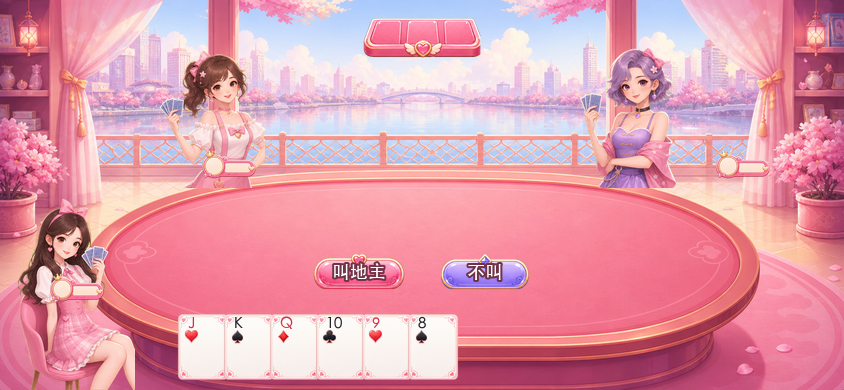
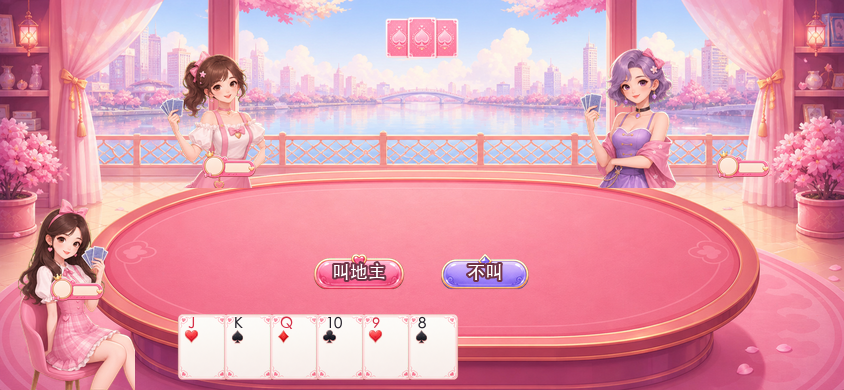
fix(ART-GAME-REMAKE): clarify bottom cards dock

Changed region(s): [[0.4313, 0.0308, 0.5853, 0.1538]]

diff --git a/asset-previews/v13-pink-game-remake/scripts/finalize_imagegen_v13.py b/asset-previews/v13-pink-game-remake/scripts/finalize_imagegen_v13.py
@@ -47,7 +47,6 @@ UI_SPECS = [
   CropSpec("ui-v13-source.png", (375, 405, 775, 635), "ui/settlement-banner-win-v13.png", (640, 180), 8),
   CropSpec("ui-v13-source.png", (760, 405, 1130, 635), "ui/settlement-banner-lose-v13.png", (640, 180), 8),
   CropSpec("ui-v13-source.png", (1115, 350, 1515, 670), "ui/settlement-panel-v13.png", (760, 380), 10),
-  CropSpec("ui-v13-source.png", (35, 710, 485, 940), "ui/bottom-cards-dock-v13.png", (440, 140), 8),
   CropSpec("ui-v13-source.png", (525, 680, 795, 990), "ui/badge-multiplier-v13.png", (180, 180), 6),
   CropSpec("ui-v13-source.png", (835, 685, 1110, 970), "ui/badge-timer-v13.png", (180, 180), 6),
   CropSpec("ui-v13-source.png", (1190, 675, 1465, 990), "ui/badge-role-v13.png", (180, 180), 6),
@@ -97,6 +96,7 @@ def main() -> None:
   build_background()
   for spec in AVATAR_SPECS + UI_SPECS + CARD_SPECS:
     build_cutout(spec)
+  build_bottom_cards_dock()
   build_stretch_simulations()
   build_composites()
   write_manifest()
@@ -120,6 +120,17 @@ def build_cutout(spec: CropSpec) -> None:
   out = ROOT / spec.out
   out.parent.mkdir(parents=True, exist_ok=True)
   final.save(out)
+
+
+def build_bottom_cards_dock() -> None:
+  src = Image.open(SOURCE / "bottom-cards-dock-v13-source.png").convert("RGBA")
+  cut = remove_green(src)
+  bbox = cut.getbbox()
+  if bbox is not None:
+    cut = cut.crop(bbox)
+  final = contain(cut, (440, 140), 4)
+  (OUT_UI / "bottom-cards-dock-v13.png").parent.mkdir(parents=True, exist_ok=True)
+  final.save(OUT_UI / "bottom-cards-dock-v13.png")
 
 
 def remove_green(image: Image.Image) -> Image.Image:
@@ -457,7 +468,7 @@ def write_prompts() -> None:
     "",
     "## Review package checklist",
     "",
-    "- Formal source sheets: 4 built-in image_gen sources under `source/generated-v13/`.",
+    "- Formal source images: 5 built-in image_gen sources under `source/generated-v13/` (4 sheets plus one dedicated bottom-cards dock source).",
     "- Formal item previews: background 1, body avatars 3, UI sprites 12, card sprites 8.",
     "- Card sprite coverage: template, back, spade, heart, club, diamond, small Joker, big Joker.",
     "- Stretch simulations: 7 sheets; each sheet shows 64px and 176px horizontal 9-slice candidates.",
@@ -477,6 +488,10 @@ def write_prompts() -> None:
     "### `source/generated-v13/ui-v13-source.png`",
     "",
     "Prompt summary: 4x3 text-free pink cartoon UI sprite sheet on flat #00ff00 chroma-key background: nameplate, buttons, settlement ribbons/panel, dock, timer/multiplier/role badges.",
+    "",
+    "### `source/generated-v13/bottom-cards-dock-v13-source.png`",
+    "",
+    "Prompt summary: dedicated front-facing flat three-card back dock source on flat #00ff00 chroma-key background; generated after user rejected the prior dock as unclear; no perspective, no plaque/button treatment, no text.",
     "",
     "### `source/generated-v13/cards-v13-source.png`",
     "",

diff --git a/asset-previews/v13-pink-game-remake/PROMPTS.md b/asset-previews/v13-pink-game-remake/PROMPTS.md
@@ -12,7 +12,7 @@
 
 ## Review package checklist
 
-- Formal source sheets: 4 built-in image_gen sources under `source/generated-v13/`.
+- Formal source images: 5 built-in image_gen sources under `source/generated-v13/` (4 sheets plus one dedicated bottom-cards dock source).
 - Formal item previews: background 1, body avatars 3, UI sprites 12, card sprites 8.
 - Card sprite coverage: template, back, spade, heart, club, diamond, small Joker, big Joker.
 - Stretch simulations: 7 sheets; each sheet shows 64px and 176px horizontal 9-slice candidates.
@@ -33,6 +33,10 @@ Prompt summary: three original cute cartoon female player body sprites on flat #
 
 Prompt summary: 4x3 text-free pink cartoon UI sprite sheet on flat #00ff00 chroma-key background: nameplate, buttons, settlement ribbons/panel, dock, timer/multiplier/role badges.
 
+### `source/generated-v13/bottom-cards-dock-v13-source.png`
+
+Prompt summary: dedicated front-facing flat three-card back dock source on flat #00ff00 chroma-key background; generated after user rejected the prior dock as unclear; no perspective, no plaque/button treatment, no text.
+
 ### `source/generated-v13/cards-v13-source.png`
 
 Prompt summary: text-free pink cartoon card sprite sheet on flat #00ff00 chroma-key background: card template, back, suits, Joker skins.
@@ -40,6 +44,7 @@ Prompt summary: text-free pink cartoon card sprite sheet on flat #00ff00 chroma-
 ## Formal generated files
 
[5 lines of base64/hex data omitted]
@@ -50,7 +55,7 @@ Prompt summary: text-free pink cartoon card sprite sheet on flat #00ff00 chroma-
[8 lines of base64/hex data omitted]
@@ -67,14 +72,14 @@ Prompt summary: text-free pink cartoon card sprite sheet on flat #00ff00 chroma-
[18 lines of base64/hex data omitted]

diff --git a/coordination/reports/ART-GAME-REMAKE.report.md b/coordination/reports/ART-GAME-REMAKE.report.md
@@ -13,10 +13,11 @@
 
 ## 生成方式 / 管线证据
 
-- 使用内置 `image_gen` 生成 4 张正式源图，原样保存在 `asset-previews/v13-pink-game-remake/source/generated-v13/`：
+- 使用内置 `image_gen` 生成 5 张正式源图，原样保存在 `asset-previews/v13-pink-game-remake/source/generated-v13/`：
   - `game-table-bg-v13-source.png`
   - `avatars-v13-source.png`
   - `ui-v13-source.png`
+  - `bottom-cards-dock-v13-source.png`
   - `cards-v13-source.png`
 - 使用 `asset-previews/v13-pink-game-remake/scripts/finalize_imagegen_v13.py` 做非创作后处理：
   - 裁切 image_gen 源图。
@@ -124,7 +125,7 @@ composites/v13/composite-844x390-settlement-v13.png 0d5f3809d9dffde0 844x390 alp
 - 验收面：图像 preview
 - 环境与版本：内置 `image_gen` + Python 3 + Pillow 后处理脚本
 - 操作步骤：
-  1. 生成 4 张内置 `image_gen` 源图。
+  1. 生成 5 张内置 `image_gen` 源图。
   2. 复制源图到 `source/generated-v13/`，保留原 `$CODEX_HOME/generated_images/...` 源路径。
   3. 运行 `python3 asset-previews/v13-pink-game-remake/scripts/finalize_imagegen_v13.py`。
   4. 目检 `review-sheet-v2.png`、三张 v13 合成图与 `btn-primary-v13-stretch.png`。
@@ -188,7 +189,7 @@ git status --short --untracked-files=all
 
 ## 与 spec 的偏差 / 关键决策
 
-- 使用 4 张 image_gen 源图承载多件 sprite，再逐件裁切为正式 `-v13` preview。每个正式件均来自内置 `image_gen` 源图，Pillow 只做非创作后处理。
+- 使用 4 张 image_gen 源图承载多件 sprite，并为底牌托架追加 1 张独立 image_gen 源图；每个正式件均来自内置 `image_gen` 源图，Pillow 只做非创作后处理。
 - `settlement-banner-win-v13` / `settlement-banner-lose-v13` 为无字装饰底图；合成预览中的「地主胜利」是 composite 上的代码字效果示意，不是正式资产内文字。
 - Joker 使用原创小丑/皇冠图案区分大小王，无 `JOKER` 文字，避免 image_gen 文字瑕疵。
 - `ui/badge-role-v13.png` 是 UI sheet 附加裁切件，不在本轮必选 import 清单内。
@@ -358,7 +359,7 @@ settlementShowcase: {"x":172,"y":32,"width":437,"height":180}
 
 ### 全量清单收口
 
-- 正式 image_gen 源图：4 张，均在 `source/generated-v13/`。
+- 正式 image_gen 源图：5 张，均在 `source/generated-v13/`。
 - 正式分项 preview：背景 1、三名立绘 3、UI 12、卡牌 8。
 - 卡牌 8 件齐：`card-template-v13`、`card-back-v13`、`suit-spade-v13`、`suit-heart-v13`、`suit-club-v13`、`suit-diamond-v13`、`joker-small-v13`、`joker-big-v13`。
 - 九宫格模拟 7 件齐：`btn-primary`、`btn-secondary`、`btn-tertiary`、`btn-disabled`、`settlement-panel`、`seat-nameplate`、`bottom-cards-dock`；每张模拟图含 64px / 176px 两档水平拉伸。
@@ -408,6 +409,59 @@ passed
 | 卡牌 8 件 | `cards/*-v13.png` | waiting |
 | 九宫格模拟 7 件 | `stretch-simulations/*-v13-stretch.png` | waiting |
 | pink 风格一致性 / 整体布局 / 名字牌对比度 / 手牌可读性 / 按钮易点性 / 结算观感 | 用户主观终审项 | waiting |
+
+## 用户图审打回返工段（Codex · 2026-07-05 · bottom-cards dock）
+
+### 打回项
+
+- 用户指出顶部红框中的底牌托架不可识别，容易被看成装饰牌匾或按钮。
+- 用户裁定：需要改成更明确的三张牌背展示；必须是平视正面视角，不要做成透视图。
+
+### 修复方式
+
+- 使用内置 `image_gen` 新生成独立源图：
+  - 原始内置输出：`/Users/admin/.codex/generated_images/019f2d58-cc34-7472-9821-6580a3c4f362/ig_0da31a4c8be87d33016a49524718ac8198be128deaf1a50e81.png`
+  - 工作区留存：`asset-previews/v13-pink-game-remake/source/generated-v13/bottom-cards-dock-v13-source.png`
+- `finalize_imagegen_v13.py` 不再从 `ui-v13-source.png` 裁旧底牌托架；改为从上述独立源图去背、裁切、缩放生成 `ui/bottom-cards-dock-v13.png`。
+- 重跑后处理并更新：
+  - `ui/bottom-cards-dock-v13.png`
+  - `stretch-simulations/bottom-cards-dock-v13-stretch.png`
+  - `composites/v13/composite-844x390-bidding-v13.png`
+  - `composites/v13/composite-780x360-playing-v13.png`
+  - `review-sheet-v2.png`
+  - `manifest-v13.json`
+  - `PROMPTS.md`
+
+### 最新打回修复机械校验
+
+```
+python3 asset-previews/v13-pink-game-remake/scripts/finalize_imagegen_v13.py
+completed
+
+asset list check
+missing []
+not_manifest []
+old_entries []
+alpha_bad []
+manifest_count 40
+
+source/generated-v13/bottom-cards-dock-v13-source.png ac28d51bc2d961f7 1672x941 alpha False corners False
+ui/bottom-cards-dock-v13.png 87932111eac3a59c 440x140 alpha True corners True
+stretch-simulations/bottom-cards-dock-v13-stretch.png 26b90861d3338470 300x220 alpha False corners False
+composites/v13/composite-844x390-bidding-v13.png 0a6844153bcfca1f 844x390 alpha False corners False
+composites/v13/composite-780x360-playing-v13.png bb6c02e5e248ca09 780x360 alpha False corners False
+review-sheet-v2.png d5edeb9de81866ff 1800x1320 alpha False corners False
+
+npm --prefix test test
+Test Files  140 passed (140)
+Tests       711 passed (711)
+
+npm --prefix test run typecheck
+tsc --noEmit passed
+
+git diff --check
+passed
+```
 
 ## 疑问 / 需规划者裁定
 
